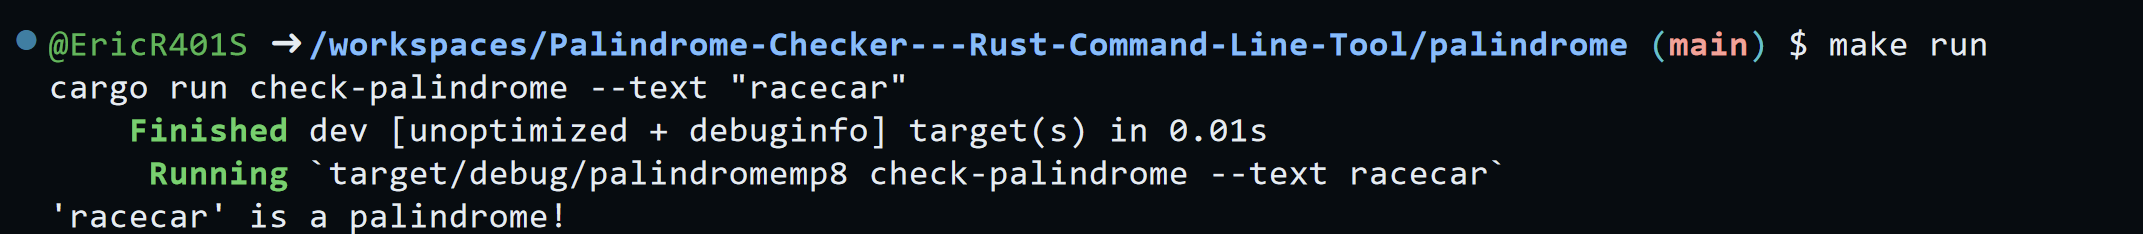
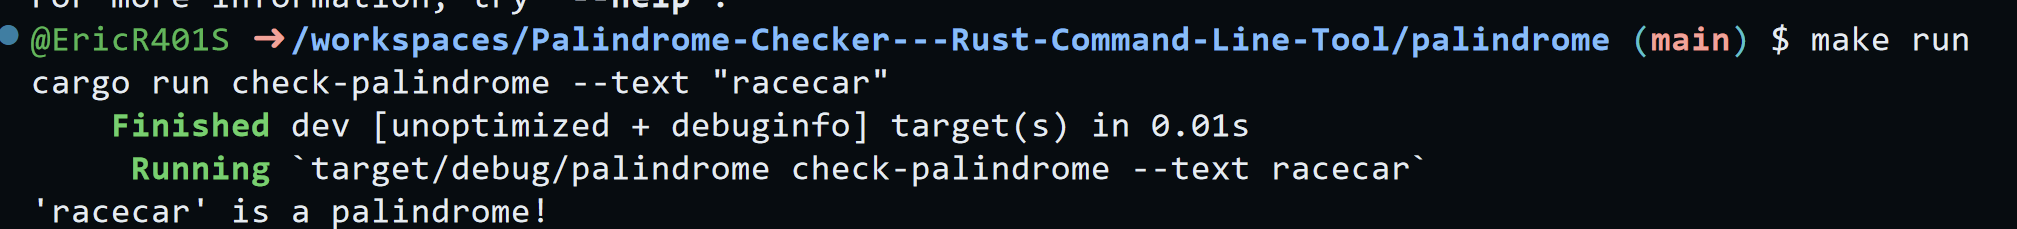
readme finished

diff --git a/README.md b/README.md
@@ -74,12 +74,13 @@ fn is_palindrome(s: &str) -> bool {
 }
 ```
 
-3. Run the tool with both the binary and cargo run directly.
+3. Run the tool with cargo run directly. You can also do it with the binary.
 ```
-$ ./target/debug/palindrome check-palindrome --text "racecar" 
 $ cargo run check-palindrome --text "racecar" 
+$ ./target/debug/palindrome check-palindrome --text body
 ```
 ![alt text](images/image.png)
+![alt text](images/image-2.png)
 
 4. Add the unit test with the assert statements.
 ```
